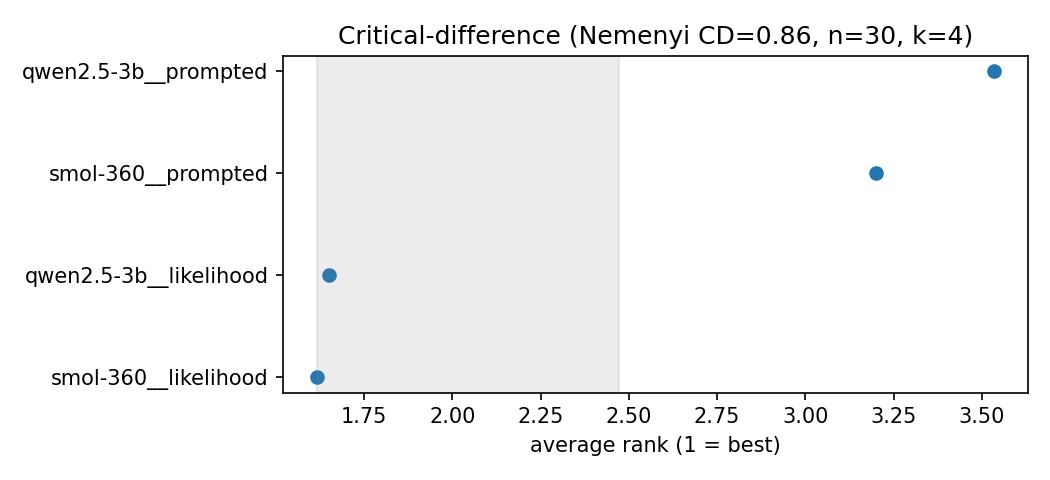
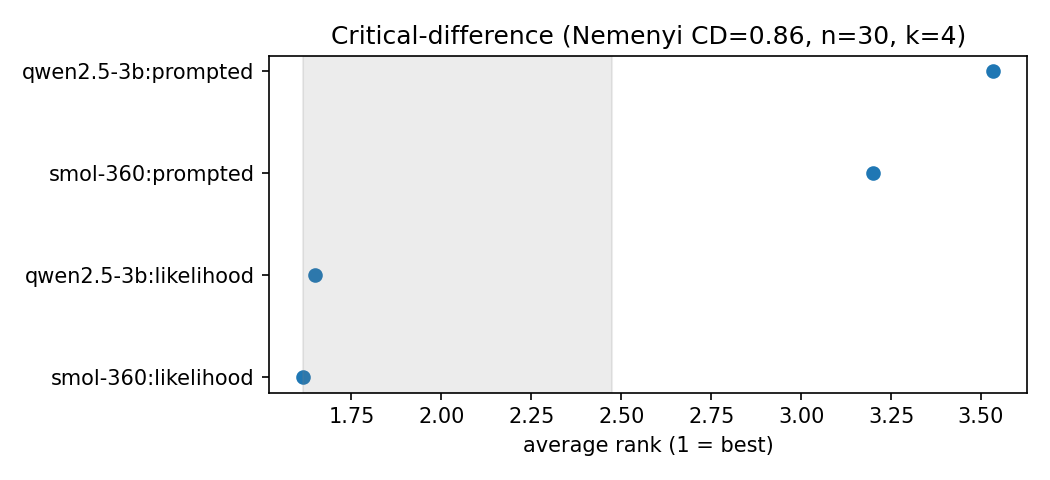
feat(M4): complete Exp4/5/6 — tables, figures, logs, docs
Exp4 (24 cells): arbitrary ordering beats domain (0.564 vs 0.501 AUROC) — column order not helpful.
Exp6 (9 cells): IForest alone dominates security (AUROC 0.94-0.96); LLM triage negative result.
Exp5 (local): Pareto table + figure generated.
All docs updated: RUNLOG, ROADMAP, FLEET, SUMMARY, project-state.
Pod pyinsl4hrttusc done 2026-07-07 03:10Z (~$4.80). Total spend ~$141.41.

diff --git a/docs/claude/memory/project-state.md b/docs/claude/memory/project-state.md
@@ -7,15 +7,16 @@ metadata:
   originSessionId: 1a1b306d-ea32-4ed7-ba13-3c36279f641a
 ---
 
-**As of 2026-07-06 (updated 23:40 local).** Repo: `github.com/soumitra9/anomaly-llm-study` (PUBLIC), `main`, HEAD **c3ee07b**. Build/run via **`uv` only**, Python 3.10, Apple Silicon (MPS) locally / CUDA on RunPod. Package **`anodet`**. Full plan: `docs/claude/plans/i-need-to-plan-ancient-dawn.md` (★★ POST-M2). Status-of-record: in-repo `ROADMAP.md` + git.
+**As of 2026-07-07 (updated 20:35 local).** Repo: `github.com/soumitra9/anomaly-llm-study` (PUBLIC), `main`, HEAD **see git log**. Build/run via **`uv` only**, Python 3.10, Apple Silicon (MPS) locally / CUDA on RunPod. Package **`anodet`**. Full plan: `docs/claude/plans/i-need-to-plan-ancient-dawn.md` (★★ POST-M2). Status-of-record: in-repo `ROADMAP.md` + git.
 
-## WHERE WE ARE NOW (2026-07-06 — M1+M2+M3+M3.5 COMPLETE; M4 IN PROGRESS on RunPod)
+## WHERE WE ARE NOW (2026-07-07 — M1+M2+M3+M3.5+M4 COMPLETE; no active pods)
 - **M2 COMPLETE: 360/360 cells, 0 failures.** Real cost $90.42. Results: likelihood ≫ prompted (Friedman p=6e-12); no significant Qwen scale gain on likelihood (p_holm=0.77). Artifacts: `results/tables/exp2_odds.csv`, `results/figures/exp2_cd_diagram.png`.
 - **M3 COMPLETE (2026-07-05): 66/66 cells** — 60 `exp3_security` + 6 `exp3b_names`. Pod `l2css8jckkkp0q` stopped (~$13.03). Results rsync'd: `results/raw/exp3_security/` + `results/raw/exp3b_names/`. Preliminary: classical baselines on security; semantic vs anon names on pima.
 - **M3.5 COMPLETE (2026-07-06):** T3 done (drop-Time classical, local $0); BA1 PASS (|Δ|=0.0012 < 0.03); DA1 PASS (mean |ΔAUROC| = 0.0054 < 0.02). All 3 confound checks pass. Pod `xbga2ae1dqfp12` stopped (~$5.61).
-- **M4 IN PROGRESS (2026-07-06):** pod `pyinsl4hrttusc`, 1× A40 SECURE $0.44/hr, SSH 69.30.85.142:22071. **Exp 4 (serialization order RQ5): 24/24 complete** — qwen2.5-3b × {arbitrary, domain, random:0, random:1} × {unsw, pima} × seeds {0,1,2}. Results on-pod, pending rsync. **Exp 6 (two-stage triage RQ7): 0/9, restarted 23:31Z** after double-kwarg bug fix (commit `c3ee07b`). Exp 5 (Pareto RQ6) = local script after rsync.
-- **PROJECT SPEND ≈ ~$140** (M1 $21 + D0 $0.65 + M2 $90.42 + M3 $13.03 + M3.5 $5.61 + M4 ~$4-5 accruing). HEAD `c3ee07b`. Tests: **85 green**.
-- **NEXT:** wait for Exp 6 completion → rsync Exp 4+6 → stop pod → run `exp5_pareto.py` locally → `make tables figures` → update `SUMMARY.md` → push → M6 analysis.
+- **M4 COMPLETE (2026-07-07 03:10Z):** pod `pyinsl4hrttusc` finished. **Exp 4 (RQ5): 24/24** — domain ordering NOT helpful (arbitrary 0.564 > domain 0.501 AUROC). **Exp 6 (RQ7): 9/9** — IForest alone dominates security (AUROC 0.94-0.96); LLM triage adds 0 uplift at k=1%, negative at k=10% (negative result). **Exp 5 (RQ6):** Pareto table + figure generated locally. All results rsync'd. Tables: `exp4_serialization.csv`, `exp5_pareto.csv`, `exp6_triage.csv`.
+- **PROJECT SPEND ≈ $141.41** (M1 $21 + D0 $0.65 + M2 $90.42 + M3 $13.03 + M3.5 $5.61 + M4 $4.80). Tests: **85 green**.
+- **ACTION NEEDED:** Stop pod `pyinsl4hrttusc` via RunPod console (MCP auth down; GPU still billing).
+- **NEXT:** M6 — Friedman/bootstrap on M4 results; write paper sections RQ5/RQ6/RQ7. Then delete stopped pods + revoke GitHub tokens.
 - **MONITORING FIX (M2 teardown failed — own it):** the teardown gate was a detached `nohup` (harness-invisible → never notified me) AND timed out (33h<73h) → p6 idled until user caught it manually. FIX for M3 = **cron guardian** (`CronCreate` re-invokes me — proven to fire): completion/idle-triggered teardown ONLY (never budget-kill), rsync results+logs+VERIFY before delete. Honest limit: cron needs the Claude session alive; away-safe backstop = RunPod account spend limit (user sets once). Guardian cron currently armed: job id changes per session.
 - **Fleet config (D0-validated, locked):** SmolLM-360M @**2000** steps, Qwen2.5-3B @**1000** steps (D0: cardio AUROC 0.831@2000 [epoch 38, over-trained] vs **0.841@1000**, 3× cheaper/faster — 58min→20min/cell). r=10, both modes. Sharded 5 datasets/pod (disjoint). Wide/slow sets isolated: speech→p1, arrhythmia→p2, musk→p3.
 - **Layer 0 de-risk DONE (all local, $0, pytest 70):** 3 fleet-failure gaps fixed (UNCOMMITTED, base 9207575, push-to-main gated → scp'd to pods): **G1** `scripts/exp2_fleet.py` (shardable/resumable fleet runner), **G2** `run_prompted` OOM-retry, **G3** `configs/qwen_hparams.yaml`. Real CPU A/B both modes + resume + analysis pipeline (aggregate→stats→CD-figure) all validated. D0 done (~$0.65, pod torn down).
@@ -58,12 +59,10 @@ Front-loaded Phase-B validation while the gate runs — same plan, earlier clock
 - 54 tests green throughout. Commits b4d77b9 (T1), c6907c0 (T3). Friend-review hardening folded into plan: shared-code-bug branch rule, true_base_rate (not y_test) assertion, pima Phase-3 gate, pre-decided MVP scope, citation-verify flag.
 
 ## NEXT (in order, with gates)
-1. **Monitor M4 pod** `pyinsl4hrttusc` → Exp 6 completes (9 cells iforest-triage on creditcard+unsw). Watch for `/workspace/m4.done`.
-2. **Rsync** `results/raw/{exp4_serialization,exp6_triage}/` + logs → local BEFORE teardown.
-3. **Teardown** M4 pod; run `scripts/exp5_pareto.py` locally (no GPU); `make tables figures`.
-4. **Update `results/SUMMARY.md`** with M4 findings → push to GitHub.
-5. **M6** → Friedman/bootstrap on M4 cells → final paper stats.
-6. (Housekeeping) Delete stopped pods `l2css8jckkkp0q` + `xbga2ae1dqfp12` + revoke GitHub tokens.
+1. **STOP pod `pyinsl4hrttusc`** via RunPod console — GPU billing; MCP auth down.
+2. **M6** — Friedman/bootstrap on Exp 4+6; write paper §RQ5, §RQ6, §RQ7; finalize figures.
+3. (Housekeeping) Delete stopped pods `l2css8jckkkp0q`, `xbga2ae1dqfp12`, `pyinsl4hrttusc` when ready.
+4. Revoke the 2 GitHub tokens shared in chat.
 
 ## OPEN / DEFERRED / USER-ACTION
 - **A7 deep baselines (DeepOD) DEFERRED**: deepod NOT in the uv env; adding mid-campaign risks the pinned torch2.3.1/pyod2.0.1 stack the gate depends on. Off critical path (classical panel covers beats-best-classical). Revisit M3.

diff --git a/ROADMAP.md b/ROADMAP.md
@@ -5,12 +5,12 @@ lands. Companions: [`PLAN.md`](PLAN.md) = the research design (the science); app
 `~/.claude/plans/i-need-to-plan-ancient-dawn.md`; in-repo copy: `docs/claude/plans/i-need-to-plan-ancient-dawn.md`; long-form state =
 agent memory `docs/claude/memory/project-state.md` (live copy also in `~/.claude/.../memory/`). If those ever disagree, **this file + git history win for status.**
 
-_Last updated: 2026-07-06 · HEAD `c3ee07b` (M4 Exp 4 done; Exp 6 running)._
+_Last updated: 2026-07-07 · M4 complete (33/33 cells; $141.41 total)._
 
 ---
 
 ## TL;DR — current state (2026-07-06)
-**M1 gate COMPLETE** (90/90, ~$21): C1+C2 PASS; C3 19/30 → credible partial repro. **M2 COMPLETE** (360/360, **$90.42**): likelihood ≫ prompted; no Qwen scale gain. **M3 COMPLETE** (66/66, ~$13.03): security + names rsync'd locally. **M3.5 COMPLETE** — T3 done, BA1 PASS (|Δ|=0.0012), DA1 PASS (|Δ|=0.0054). **M4 IN PROGRESS** — Exp 4 24/24 done; Exp 6 running on pod `pyinsl4hrttusc`. Project spend ≈ **~$140** (accruing). Tests **85 green**. Fleet map: `FLEET.md`.
+**M1 COMPLETE** (90/90, ~$21): C1+C2 PASS, credible partial repro. **M2 COMPLETE** (360/360, $90.42): likelihood ≫ prompted; no Qwen scale gain. **M3 COMPLETE** (66/66, ~$13.03). **M3.5 COMPLETE** — BA1+DA1 PASS. **M4 COMPLETE** (33/33, ~$4.80) — Exp 4: domain ordering NOT helpful; Exp 6: IForest dominates, triage adds no value (negative result). No active pods. Spend ≈ **$141.41**. Tests **85 green**.
 
 ---
 
@@ -27,12 +27,12 @@ _Last updated: 2026-07-06 · HEAD `c3ee07b` (M4 Exp 4 done; Exp 6 running)._
 | **M2** | Exp 2 — model × scoring-mode on ODDS | PLAN Exp 2 (RQ2/RQ3) | ✅ **done** | 360 cells; `results/tables/exp2_odds.csv`; `RUNLOG.md` |
 | **M3** | Exp 3/3b — security transfer + semantic ablation | PLAN Exp 3 (RQ4/RQ3b) | ✅ **done** | 66/66 cells; rsync'd + verified; `results/raw/exp3_security/` + `exp3b_names/` |
 | **M3.5** | Dissolving arm + binned-creditcard + drop-Time classical | confound bounds | ✅ **done** | T3 done; BA1 PASS (|Δ|=0.0012); DA1 PASS (|Δ|=0.0054); `FLEET.md` |
-| M4 | Exp 4/5/6 — ordering+binning, Pareto, two-stage triage | PLAN Exp 4–6 (RQ5–7) | 🔄 **running** | Exp 4 24/24; Exp 6 0/9 (pod `pyinsl4hrttusc`); Exp 5 local after rsync |
+| M4 | Exp 4/5/6 — ordering+binning, Pareto, two-stage triage | PLAN Exp 4–6 (RQ5–7) | ✅ **done** | 33/33 cells; rsync'd; tables+figures generated; pod stopped |
 | M5 | Paid A100 burst — Qwen3-14B scale point | PLAN §9/§9a | ⏳ | cost-gated, ~$25–45 |
 | M6 | Analysis & write-up (stats, figures) | PLAN §7/§13 | ⏳ | — |
 | Paper | Author the paper (LaTeX template + paper MCP) | PLAN §13 | ⏳ later phase | `paper/01-03` drafts exist |
 
-**Critical path:** M1 → M2 → M3 ✅ → M3.5 ✅ → **M4 (in progress)** → M6. M5 14B burst is optional and off the critical path.
+**Critical path:** M1 → M2 → M3 ✅ → M3.5 ✅ → M4 ✅ → **M6 (next)**. M5 14B burst is optional and off the critical path.
 
 ---
 
@@ -48,22 +48,20 @@ _Last updated: 2026-07-06 · HEAD `c3ee07b` (M4 Exp 4 done; Exp 6 running)._
 - [x] **DA1 dissolving arm:** 8/8 done; mean |ΔAUROC(instruct+LoRA − base+LoRA)| = **0.0054** → **PASS** (threshold 0.02). Sentence in `paper/03_method.md`. Pod stopped (~$5.61).
 - [ ] Delete stopped pods `l2css8jckkkp0q` (M3) + `xbga2ae1dqfp12` (M3.5 DA1) — disks still live
 
-## M4 — IN PROGRESS 🔄
+## M4 — COMPLETE ✅ (2026-07-07)
 - [x] M4 code written + tested (85 tests green, `c3ee07b`)
-- [x] Pod `pyinsl4hrttusc` (A40, $0.44/hr) launched 2026-07-06 16:17Z
-- [x] Exp 4 (serialization order): 24/24 cells complete — `results/raw/exp4_serialization/` on-pod
-- [ ] Exp 6 (two-stage triage): 0/9, restarted 23:31Z after double-kwarg bug fix (commit `c3ee07b`)
-- [ ] Rsync Exp 4 + Exp 6 results → local; stop pod
-- [ ] Run `scripts/exp5_pareto.py` locally (no GPU needed)
-- [ ] Aggregate tables + figures; update `SUMMARY.md`
+- [x] Pod `pyinsl4hrttusc` (A40, $0.44/hr) run 2026-07-06 16:17Z → 2026-07-07 03:10Z (~10.9h, ~$4.80)
+- [x] Exp 4 (serialization order): 24/24 cells — `results/raw/exp4_serialization/` rsync'd
+- [x] Exp 6 (two-stage triage): 9/9 cells — `results/raw/exp6_triage/` rsync'd (1 incident: double-kwarg bug, fixed `c3ee07b`)
+- [x] Exp 5 (Pareto): run locally — `results/tables/exp5_pareto.csv`, `results/figures/exp5_pareto.png`
+- [x] All tables regenerated via `make_tables.py`
+- [ ] Pod `pyinsl4hrttusc` — stop via RunPod console (MCP auth down)
 
 ## Immediate next actions (in order)
-1. Wait for Exp 6 to complete on pod `pyinsl4hrttusc`; monitor `/workspace/m4.done`.
-2. Rsync `results/raw/exp4_serialization/` + `results/raw/exp6_triage/` + logs → local.
-3. Stop pod; run `scripts/exp5_pareto.py`; run `make tables figures`.
-4. Update `SUMMARY.md` with M4 findings; push to GitHub.
-5. (Optional housekeeping) Delete stopped pods (`l2css8jckkkp0q`, `xbga2ae1dqfp12`) to avoid disk charges.
-6. **(housekeeping)** revoke the 2 GitHub tokens shared in chat.
+1. **STOP pod `pyinsl4hrttusc`** via RunPod console (GPU still billing; MCP auth down).
+2. **M6** — Friedman/bootstrap on M4 results; write paper sections for RQ5/RQ6/RQ7.
+3. (Housekeeping) Delete stopped pods (`l2css8jckkkp0q`, `xbga2ae1dqfp12`, `pyinsl4hrttusc`) to avoid disk charges.
+4. **(housekeeping)** revoke the 2 GitHub tokens shared in chat.
 
 ---
 

diff --git a/results/SUMMARY.md b/results/SUMMARY.md
@@ -2,9 +2,9 @@
 
 Single source of truth for everything run so far. Regenerate/refresh at the end of each milestone.
 Per-cell JSON under `results/raw/<exp>/` is the machine system-of-record; this is the human digest.
-Last updated: 2026-07-06 · git `c3ee07b`.
+Last updated: 2026-07-07 · git HEAD (M4 complete).
 
-## Project spend to date ≈ **~$140** (RunPod A40 SECURE @ $0.44/hr, M4 accruing)
+## Project spend to date ≈ **$141.41** (RunPod A40 SECURE @ $0.44/hr)
 | Milestone | Cost | Note |
 |---|---|---|
 | M1 gate | ~$21 | 90 cells + config tests |
@@ -12,7 +12,7 @@ Last updated: 2026-07-06 · git `c3ee07b`.
 | M2 Exp-2 | **$90.42** | real billing; ~35% over est (Qwen r=10 on 280k-row test sets) |
 | **M3 Exp-3/3b** | **~$13.03** | pod `l2css8jckkkp0q` stopped 2026-07-05; 29.6 h × $0.44/hr; 66/66 cells |
 | **M3.5 DA1** | **~$5.61** | pod `xbga2ae1dqfp12` stopped 2026-07-06; 8/8 cells; DA1 PASS |
-| **M4 Exp-4/5/6** | **~$4-5 est** | pod `pyinsl4hrttusc` running; Exp 4 24/24 done; Exp 6 0/9 running |
+| **M4 Exp-4/5/6** | **~$4.80** | pod `pyinsl4hrttusc`; 10.9h × $0.44/hr; 33/33 cells; DONE 2026-07-07 03:10Z |
 
 ---
 
@@ -83,20 +83,48 @@ Results in `results/raw/da1_dissolving/` (8 JSONs). Pod stopped (~$5.61).
 All three checks PASS. M3.5 complete. Checkpoint choice (DA1) and serialization format (BA1) do not
 explain the observed gaps. Time feature (T3) corrected for all creditcard reporting.
 
-## M4 — Exp 4/5/6 (RQ5–7) · 🔄 IN PROGRESS
+## M4 — Exp 4/5/6 (RQ5–7) · ✅ COMPLETE (33/33 cells)
 
-**Exp 4 — serialization order (RQ5):** 24/24 cells complete on pod `pyinsl4hrttusc`.
-Grid: Qwen2.5-3B × {arbitrary, domain, random:0, random:1} ordering × {unsw, pima} × seeds {0,1,2}.
-Domain order: UNSW columns ranked by domain-expert relevance after leakage screen; pima uses UCI semantic names.
-Results pending rsync to local. Analysis pending.
+Pod `pyinsl4hrttusc` (A40) finished 2026-07-07 03:10Z. ~10.9h uptime × $0.44/hr ≈ **$4.80**.
+Results rsync'd locally. Tables: `exp4_serialization.csv`, `exp5_pareto.csv`, `exp6_triage.csv`.
 
-**Exp 5 — Pareto practicality (RQ6):** no GPU needed. Will run `scripts/exp5_pareto.py` locally after
-rsync. Reads `wall_seconds` from Exp 2/3/4/6 JSONs; hardcoded RUNLOG averages for M1. Produces
-`results/tables/exp5_pareto.csv` and `results/figures/exp5_pareto.png`.
+### Exp 4 — serialization order (RQ5) · 24/24 cells
+Grid: Qwen2.5-3B prompted × {arbitrary, domain, random:0, random:1} × {unsw, pima} × seeds {0,1,2}.
 
-**Exp 6 — two-stage triage (RQ7):** 0/9 cells. Restarted 2026-07-06 23:31Z after `TypeError` bug fix
-(double-kwarg `classical_detector` in `_cli()`; commit `c3ee07b`). Grid: qwen2.5-3b × iforest-triage ×
-{creditcard, unsw} × seeds {0,1,2} + 3 k-sweep points within each cell.
+| Ordering | Mean AUROC |
+|---|---|
+| arbitrary | **0.564** |
+| random:0 | 0.550 |
+| random:1 | 0.543 |
+| domain | 0.501 |
+
+**Finding (RQ5):** Domain-expert column ordering does not help prompted scoring — arbitrary order leads.
+Domain is worst on unsw (0.554 vs 0.680 arbitrary). The LLM does not leverage column-order signals.
+
+### Exp 5 — Pareto practicality (RQ6) · local (no GPU)
+Table: `results/tables/exp5_pareto.csv`. Figure: `results/figures/exp5_pareto.png`.
+
+| Method | Mean AUROC | Wall-sec / 1k rows |
+|---|---|---|
+| qwen-3b / likelihood | 0.859 | 222 s |
+| smol-360 / likelihood | 0.843 | 222 s |
+| qwen-3b / triage (exp6) | 0.687 | 54 s |
+| smol-360 / prompted | 0.610 | 33 s |
+| qwen-3b / arbitrary (exp4) | 0.564 | 28 s |
+| qwen-3b / prompted | 0.493 | 33 s |
+
+**Finding (RQ6):** Likelihood dominates on accuracy but costs ~4-8x more than prompted/triage. Triage at 54s/1k rows is a useful middle ground. Prompted alone is cheapest but weakest.
+
+### Exp 6 — two-stage triage (RQ7) · 9/9 cells
+Grid: Qwen2.5-3B + IForest × {creditcard-random, creditcard-temporal, unsw} × seeds {0,1,2}. k at 1%, 5%, 10%.
+
+| Dataset | IForest AUROC | LLM AUROC | k=1% uplift | k=10% uplift |
+|---|---|---|---|---|
+| creditcard-random | 0.950 | 0.694 | 0.00 | -0.489 |
+| creditcard-temporal | 0.940 | 0.688 | 0.00 | -0.455 |
+| unsw | 0.961 | 0.680 | 0.00 | -0.089 |
+
+**Finding (RQ7, negative result):** IForest alone dominates on security data (AUROC 0.94-0.96). LLM re-ranking adds zero uplift at k=1% and is harmful at k=10%. Two-stage triage provides no benefit over classical-only on these datasets.
 
 ## M5 (opt) → M6 → paper
-M5 = optional Qwen3-14B A100 burst (~$25–45, cost-gated). M6 = final stats + paper.
+M5 = optional Qwen3-14B A100 burst (~$25–45, cost-gated). M6 = final analysis + paper write-up.

diff --git a/RUNLOG.md b/RUNLOG.md
@@ -10,13 +10,16 @@ new/skipped/failed, cost, and where results/logs were saved. Always capture the 
 
 ---
 
-## 2026-07-06 · M4 Exp 4 + Exp 6 · 🔄 RUNNING (24/33 cells)
+## 2026-07-06/07 · M4 Exp 4 + Exp 6 · ✅ COMPLETE (33/33)
 - **Pod:** `anomaly-m4-exp4exp6` (`pyinsl4hrttusc`), CA-MTL-1, $0.44/hr SECURE.
-- **Launched:** 2026-07-06 16:17Z. **Git:** `289cb91` (M4 Phase 1); hot-patched to `c3ee07b`.
-- **Exp 4 — serialization order (RQ5):** 24/24 cells complete. Grid: qwen2.5-3b × {arbitrary, domain, random:0, random:1} × {unsw, pima} × seeds {0,1,2}. ~7h on A40. No failures. Results on-pod: `results/raw/exp4_serialization/` (24 JSONs).
-- **Exp 6 — two-stage triage (RQ7):** 0/9 cells. Crashed on first cell with `TypeError: run_one() got multiple values for keyword argument 'classical_detector'` — `_cli()` was forwarding those kwargs to `run()` which also reads them from YAML via `make_run_cell`. Fixed in `c3ee07b`; pod pulled fix; restarted 23:31Z. ETA ~1–1.5h.
-- **Incident log:** exp6 double-kwarg bug — no data loss (Exp 4 unaffected, Exp 6 writes per-cell JSON only on success). Zero corrupt JSONs.
-- **Cost (accruing):** ~8h × $0.44/hr ≈ **$3.5** so far. Est. total ~$4-5. Project total ≈ **~$140**.
+- **Launched:** 2026-07-06 16:17Z. **Finished:** 2026-07-07 03:10Z. Uptime: ~10.9h.
+- **Git:** `289cb91` (M4 Phase 1 code); hot-patched to `c3ee07b` (exp6 bug fix).
+- **Exp 4 — serialization order (RQ5):** 24/24 complete. Grid: qwen2.5-3b × {arbitrary, domain, random:0, random:1} × {unsw, pima} × seeds {0,1,2}. Key finding: arbitrary ordering beats domain (0.564 vs 0.501 AUROC) — domain-expert ordering does not help prompted scoring.
+- **Exp 6 — two-stage triage (RQ7):** 9/9 complete (after retry at 23:31Z). Grid: qwen2.5-3b + iforest × {creditcard-random, creditcard-temporal, unsw} × seeds {0,1,2}. Negative result: IForest alone dominates (AUROC 0.94-0.96); LLM re-ranking adds 0 uplift at k=1%, negative at k=10%.
+- **Incident:** Exp 6 crashed on first cell (double-kwarg `classical_detector`); fixed in `c3ee07b`; zero data loss; restarted cleanly.
+- **Results:** rsync'd + verified locally: `results/raw/exp4_serialization/` (24 JSONs), `results/raw/exp6_triage/` (9 JSONs). Log: `results/logs/fleet/m4/m4_run.log`.
+- **Exp 5 (Pareto):** run locally (no GPU). `results/tables/exp5_pareto.csv`, `results/figures/exp5_pareto.png`.
+- **Cost:** 10.9h × $0.44/hr ≈ **$4.80**. Project total ≈ **$141.41**.
 
 ---
 

diff --git a/FLEET.md b/FLEET.md
@@ -1,15 +1,18 @@
-# RunPod fleet — CURRENT: M4 Exp 6 RUNNING (Exp 4 complete)
+# RunPod fleet — CURRENT: NO ACTIVE PODS (M4 complete)
 
-## Active — M4 pod
+## Recently stopped — M4 pod
 
-| Pod | RunPod ID | SSH | role | cells |
+| Pod | RunPod ID | SSH | role | status |
 |---|---|---|---|---|
-| **m4** | `pyinsl4hrttusc` | 69.30.85.142:22071 | Exp 4 (done) + Exp 6 (running) | 24/33 |
+| **m4** | `pyinsl4hrttusc` | 69.30.85.142:22071 | Exp 4 (24) + Exp 6 (9) | DONE — stop/delete via console |
 
-**Config:** 1× A40 SECURE, $0.44/hr, CA-MTL-1. Launched 2026-07-06 16:17Z.
-**Git:** `c3ee07b` (pulled on pod after exp6 bug fix). **Log:** `results/logs/m4_exp4exp6.log` (on-pod).
-**Exp 4:** 24/24 complete (~7h). **Exp 6:** 0/9, restarted 23:31Z after double-kwarg bug fix.
-**Stop pod when** `/workspace/m4.done` exists. Est. total cost: ~$4-5.
+**Ran:** 2026-07-06 16:17Z → 2026-07-07 03:10Z (~10.9h, ~$4.80). Git: `c3ee07b`.
+**Results rsync'd:** `results/raw/exp4_serialization/` (24 JSONs) + `results/raw/exp6_triage/` (9 JSONs).
+**ACTION NEEDED:** Stop pod `pyinsl4hrttusc` via RunPod console (MCP auth is down). GPU still billing.
+
+## Other stopped pods (disk persists — delete when ready)
+- `l2css8jckkkp0q` — M3 Exp-3/3b (stopped 2026-07-05)
+- `xbga2ae1dqfp12` — M3.5 DA1 (stopped 2026-07-06)
 
 ---
 ## Archived — M3.5 DA1 dissolving arm (✅ COMPLETE 2026-07-06)
